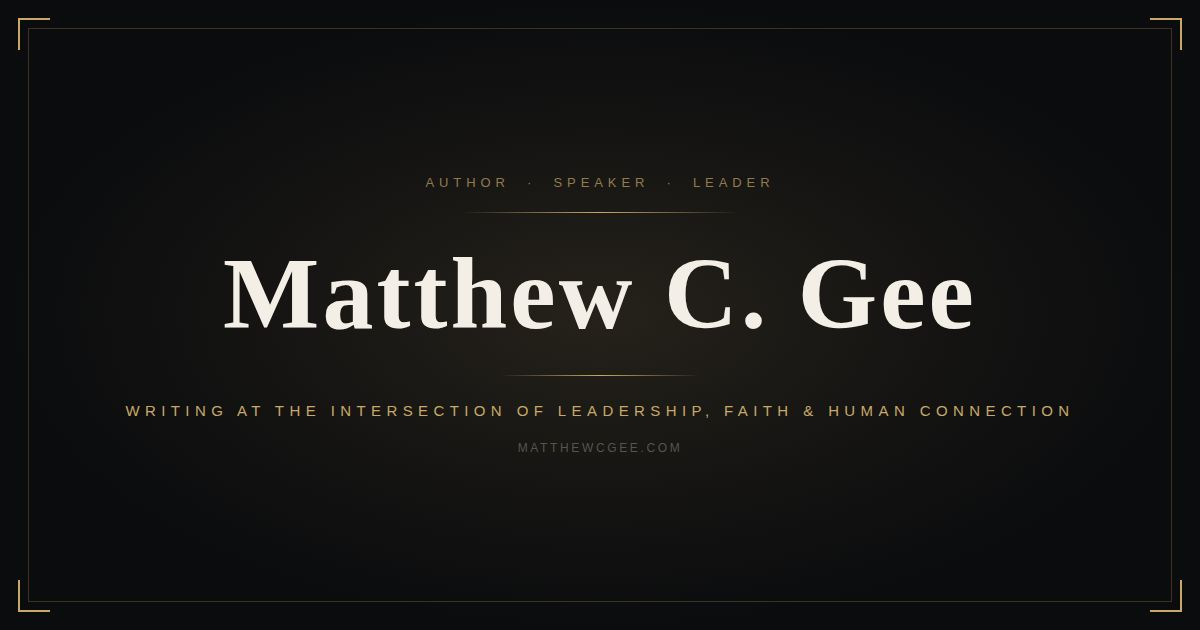
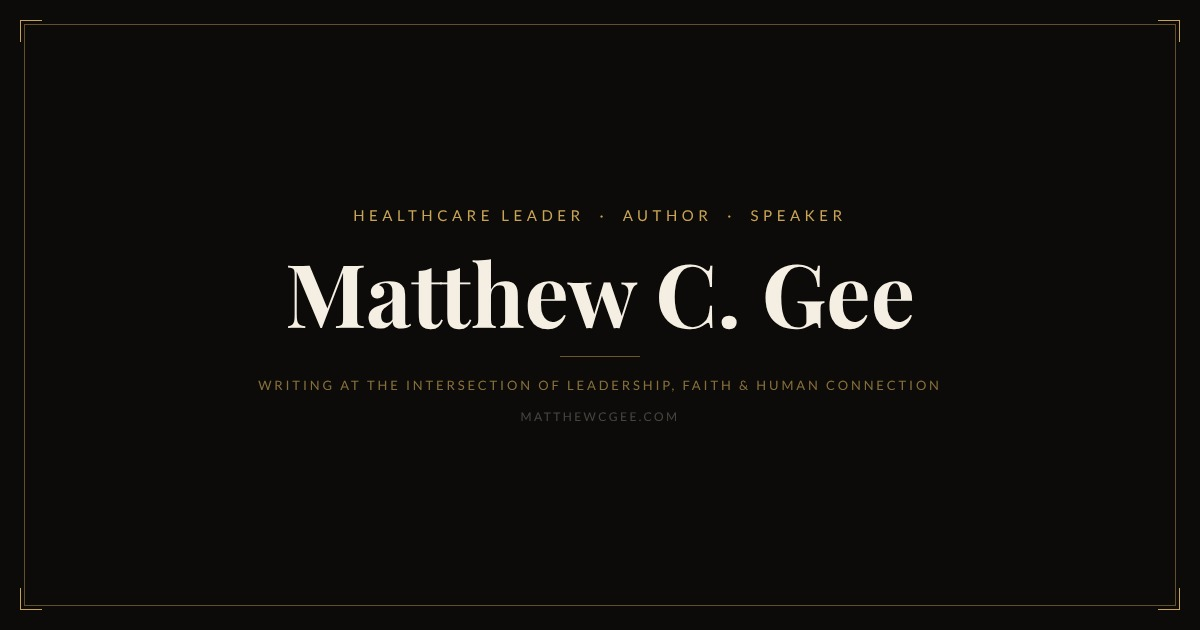
Update social share thumbnail and OG tags to Healthcare Leader, Author & Speaker
- og:title / twitter:title: removed 'Author of Roots Before Branches',
  now reads 'Matthew C. Gee — Healthcare Leader, Author & Speaker'
- og:description, twitter:description, meta description all updated
- Regenerated social-share.jpg: 'HEALTHCARE LEADER · AUTHOR · SPEAKER'

Claude-Session: https://claude.ai/code/session_01UP47CXrHALqYNSNkKbtyXy

diff --git a/index.html b/index.html
@@ -4,19 +4,19 @@
   <meta charset="UTF-8">
   <meta name="viewport" content="width=device-width, initial-scale=1.0">
   <title>Matthew C. Gee — Author of Roots Before Branches</title>
-  <meta name="description" content="Matthew C. Gee, MBA — author of Roots Before Branches: Reestablishing Connection in Healthcare, Leadership, and Society, and Candice and Sam's Big Adventure. Healthcare leader, behavioral health strategist, and speaker. Coming Summer 2026.">
+  <meta name="description" content="Matthew C. Gee — Healthcare leader, author, and speaker. Writing at the intersection of leadership, faith, and human connection.">
 
   <!-- Social link previews (Open Graph / Twitter Card) -->
   <meta property="og:type" content="website">
   <meta property="og:url" content="https://matthewcgee.github.io/Matthew-Gee-Author-Website/">
-  <meta property="og:title" content="Matthew C. Gee — Author of Roots Before Branches">
-  <meta property="og:description" content="Author of Roots Before Branches: Reestablishing Connection in Healthcare, Leadership, and Society, and Candice and Sam's Big Adventure — both coming Summer 2026. Healthcare leader, behavioral health strategist, and speaker.">
+  <meta property="og:title" content="Matthew C. Gee — Healthcare Leader, Author &amp; Speaker">
+  <meta property="og:description" content="Healthcare leader, author, and speaker writing at the intersection of leadership, faith, and human connection. Books, speaking engagements, and free resources at matthewcgee.com.">
   <meta property="og:image" content="https://matthewcgee.github.io/Matthew-Gee-Author-Website/images/social-share.jpg">
   <meta property="og:image:width" content="1200">
   <meta property="og:image:height" content="630">
   <meta name="twitter:card" content="summary_large_image">
-  <meta name="twitter:title" content="Matthew C. Gee — Author of Roots Before Branches">
-  <meta name="twitter:description" content="Author of Roots Before Branches: Reestablishing Connection in Healthcare, Leadership, and Society, and Candice and Sam's Big Adventure — both coming Summer 2026.">
+  <meta name="twitter:title" content="Matthew C. Gee — Healthcare Leader, Author &amp; Speaker">
+  <meta name="twitter:description" content="Healthcare leader, author, and speaker writing at the intersection of leadership, faith, and human connection.">
   <meta name="twitter:image" content="https://matthewcgee.github.io/Matthew-Gee-Author-Website/images/social-share.jpg">
 
   <script>
